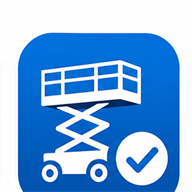
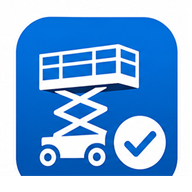
Add files via upload

diff --git a/index.html b/index.html
@@ -62,7 +62,7 @@ button{border:none;border-radius:14px;padding:11px 14px;cursor:pointer;font-weig
 input::placeholder, textarea::placeholder{color:#334155;font-weight:600;font-size:1rem;opacity:1} textarea{min-height:110px;resize:vertical}
 .suggest-wrap{position:relative}.suggest-box{position:absolute;left:0;right:0;top:calc(100% + 8px);border:1px solid var(--line);border-radius:14px;background:#fff;max-height:220px;overflow:auto;box-shadow:0 10px 24px rgba(15,23,42,.08);z-index:20}.suggest-item{padding:10px 12px;cursor:pointer;border-bottom:1px solid #eef2f7;font-size:.95rem}.suggest-item:last-child{border-bottom:none}.suggest-item:hover{background:#f8fbff}.helper{font-size:.8rem;color:var(--muted);margin-top:6px}
 .smart-suggest-wrap{position:relative;overflow:visible}.smart-suggest-box{position:absolute;left:0;right:0;top:calc(100% + 6px);display:none;max-height:168px;overflow:auto;-webkit-overflow-scrolling:touch;background:#fff;border:1px solid var(--line);border-radius:14px;box-shadow:0 12px 26px rgba(15,23,42,.18);z-index:[phone redacted]}.smart-suggest-box.show{display:block}.smart-suggest-box.mobile-floating{position:fixed!important;right:auto!important;top:auto;bottom:auto;z-index:[phone redacted]!important;max-height:180px!important}.smart-suggest-item{padding:10px 12px;border-bottom:1px solid #eef2f7;cursor:pointer;font-size:.92rem;line-height:1.25;background:#fff}.smart-suggest-item:last-child{border-bottom:none}.smart-suggest-item:hover{background:#f8fbff}.smart-suggest-muted{padding:9px 12px;color:var(--muted);font-size:.86rem}.field textarea + .smart-suggest-box{top:calc(100% + 6px)}body.dark .smart-suggest-box{background:#0f172a;border-color:var(--line)}body.dark .smart-suggest-item{background:#0f172a;border-bottom-color:#243244}body.dark .smart-suggest-item:hover{background:#172033}
-/* v1.6 / 5.157 – našeptávač přímo pod polem jako světlý oddělený seznam */
+/* v1.6 / 5.158 – našeptávač přímo pod polem jako světlý oddělený seznam */
 .smart-suggest-wrap{position:relative!important;overflow:visible!important}
 .smart-suggest-box{position:absolute!important;left:0!important;right:0!important;top:calc(100% + 6px)!important;bottom:auto!important;display:none;max-height:210px;overflow-y:auto;overflow-x:hidden;-webkit-overflow-scrolling:touch;background:#f1f5f9!important;border:1px solid #cbd5e1!important;border-radius:14px!important;box-shadow:0 14px 32px rgba(15,23,42,.18)!important;z-index:2147483647!important}
 .smart-suggest-box.show{display:block!important}
@@ -1536,7 +1536,7 @@ body.dark .part-handler-note-display{background:rgba(59,130,246,.12);border-colo
 
 
 
-/* v1.6 / 5.157: mobilní náhled protokolu bez vodorovného posouvání */
+/* v1.6 / 5.158: mobilní náhled protokolu bez vodorovného posouvání */
 @media (max-width: 700px){
   #preview .modal-content{
     width:100vw!important;
@@ -1675,11 +1675,12 @@ body.dark .part-handler-note-display{background:rgba(59,130,246,.12);border-colo
 .easter-game.playing .easter-start{display:none}
 @media(max-width:640px){.easter-hud{align-items:flex-start}.easter-title{font-size:.82rem}.easter-pill{font-size:.76rem;padding:6px 8px}.easter-close{left:14px;right:14px}}
 
-/* v1.6 / 5.157: Revize ZZ / PZP */
+/* v1.6 / 5.158: Revize ZZ / PZP */
 .revize-toolbar{display:flex;gap:10px;flex-wrap:wrap;align-items:center;margin:0 0 14px}.revize-toolbar .search{min-width:min(100%,280px)}
 .revize-archive-head{border:1px solid var(--line);background:linear-gradient(180deg,#f8fbff,#eef6ff);border-radius:10px;padding:10px 12px;margin:12px 0 10px}.dark .revize-archive-head{background:#111827}.revize-archive-head .step-title{margin:2px 0 3px;font-size:1.02rem}
 .revize-stepbar{display:flex;align-items:center;justify-content:space-between;gap:10px;border:1px solid var(--line);background:#f8fbff;border-radius:10px;padding:9px 11px;margin:0 0 12px}.dark .revize-stepbar{background:#111827}.revize-stepbar strong{font-size:.95rem}.revize-stepbar span{color:var(--muted);font-size:.82rem}.revize-step-controls{display:flex;gap:8px;align-items:center;justify-content:flex-end;flex-wrap:wrap}.revize-step-progress{min-width:72px;text-align:center;color:var(--muted);font-size:.85rem}.rz-hidden-step{display:none!important}
-.revize-wizard-modal .modal-content{width:min(100%,760px)}.revize-wizard-modal .revize-form{display:block;border:0;box-shadow:none;border-radius:0;margin:0;padding:22px;background:linear-gradient(180deg,#fff 0%,#f9fbff 100%)}.dark .revize-wizard-modal .revize-form{background:linear-gradient(180deg,#111827 0%,#0f172a 100%)}.revize-wizard-modal #revizeFormWrap>h3,.revize-wizard-modal #revizeFormWrap>.helper{display:none}.revize-wizard-modal .revize-form-grid{grid-template-columns:1fr}.revize-wizard-modal .revize-section-title{margin:0 0 10px;padding:0;border:0;background:transparent;color:var(--text);font-size:1.28rem;text-transform:none;letter-spacing:0}.dark .revize-wizard-modal .revize-section-title{background:transparent;color:var(--text)}.revize-wizard-modal .field{margin-top:0}.revize-wizard-modal .field label{display:none}.revize-wizard-modal .preview-actions{margin-top:18px}.revize-wizard-modal .revize-stepbar{margin-bottom:14px}.revize-wizard-placeholder{display:none}
+.revize-wizard-modal .modal-content{width:min(96vw,860px);max-height:min(94dvh,820px)}.revize-wizard-modal .revize-form{display:block;border:0;box-shadow:none;border-radius:0;margin:0;padding:22px;background:linear-gradient(180deg,#fff 0%,#f9fbff 100%)}.dark .revize-wizard-modal .revize-form{background:linear-gradient(180deg,#111827 0%,#0f172a 100%)}.revize-wizard-modal #revizeFormWrap>h3,.revize-wizard-modal #revizeFormWrap>.helper{display:none}.revize-wizard-modal .revize-form-grid{grid-template-columns:1fr}.revize-wizard-modal .revize-section-title{margin:0 0 10px;padding:0;border:0;background:transparent;color:var(--text);font-size:1.28rem;text-transform:none;letter-spacing:0}.dark .revize-wizard-modal .revize-section-title{background:transparent;color:var(--text)}.revize-wizard-modal .field{margin-top:0}.revize-wizard-modal .field label{display:none}.revize-wizard-modal .preview-actions{margin-top:18px}.revize-wizard-modal .revize-stepbar{margin-bottom:14px}.revize-wizard-placeholder{display:none}
+@media(max-width:640px){.revize-wizard-modal{padding:8px!important}.revize-wizard-modal .modal-content{width:100%;max-height:calc(100dvh - 16px)}.revize-wizard-modal .revize-form{padding:16px}.revize-wizard-modal .preview-actions-right{display:grid;grid-template-columns:1fr 1fr;width:100%}.revize-wizard-modal .preview-actions-right button{width:100%}}
 .revize-form{border:1px solid var(--line);background:#fff;border-radius:12px;padding:14px;margin:12px 0 16px;box-shadow:0 10px 28px rgba(15,47,95,.08)}
 .dark .revize-form{background:#0f172a}.revize-form-grid{display:grid;grid-template-columns:repeat(4,minmax(0,1fr));gap:10px}.revize-form-grid .wide{grid-column:span 2}.revize-form-grid .full{grid-column:1/-1}
 .revize-section-title{grid-column:1/-1;margin:8px 0 0;padding:7px 9px;border-left:4px solid var(--brand);background:#eff6ff;color:#0f2f5f;font-weight:900;font-size:.82rem;text-transform:uppercase;letter-spacing:.04em}.dark .revize-section-title{background:#172554;color:#dbeafe}
@@ -1687,7 +1688,7 @@ body.dark .part-handler-note-display{background:rgba(59,130,246,.12);border-colo
 @media(max-width:900px){.revize-form-grid{grid-template-columns:1fr}.revize-form-grid .wide{grid-column:auto}.revize-check-row{grid-template-columns:1fr}.revize-paper{width:100%;min-height:auto;padding:12px;box-shadow:none}.revize-toolbar .search{min-width:0;flex:1}}
 @media print{body.printing-revize header,body.printing-revize aside,body.printing-revize .container,body.printing-revize .preview-actions{display:none!important}.revize-paper{box-shadow:none;margin:0;padding:8mm;page-break-after:always}}
 
-/* v1.6 / 5.157: Revize ZZ tisknout jako přesné dvě čitelné A4 strany bez křížků/fajfek. */
+/* v1.6 / 5.158: Revize ZZ tisknout jako přesné dvě čitelné A4 strany bez křížků/fajfek. */
 .revize-paper{box-sizing:border-box;display:flex;flex-direction:column;gap:4px;min-height:297mm}
 .revize-paper table{table-layout:fixed;margin:0 0 4px;break-inside:avoid;page-break-inside:avoid}
 .revize-paper tr{break-inside:avoid;page-break-inside:avoid}
@@ -1707,7 +1708,7 @@ body.dark .part-handler-note-display{background:rgba(59,130,246,.12);border-colo
   .revize-paper:last-child{page-break-after:auto!important;break-after:auto!important}
 }
 
-/* v1.6 / 5.157: stable CSS icons, mobile overflow and cloud-save feedback */
+/* v1.6 / 5.158: stable CSS icons, mobile overflow and cloud-save feedback */
 html,body{max-width:100%;overflow-x:hidden;-webkit-text-size-adjust:100%}
 img,svg,canvas,video{max-width:100%}
 .container,.page-section,.modal,.modal-content,.wizard-shell,.preview-shell,#content,.field,.suggest-wrap,.wizard-actions,.preview-actions,.preview-actions-left,.preview-actions-right{max-width:100%;min-width:0;box-sizing:border-box}
@@ -1720,13 +1721,13 @@ input,textarea,select,button{max-width:100%;min-width:0;box-sizing:border-box}
 .mark-box{width:14px;height:14px;border:1.7px solid #111;border-radius:2px;vertical-align:middle;position:relative;background:#fff}.mark-box.checked{background:#111}
 @media(max-width:640px){.modal{align-items:flex-start;justify-content:center;overflow-y:auto;-webkit-overflow-scrolling:touch;padding:calc(env(safe-area-inset-top,0px) + 10px) max(8px,env(safe-area-inset-right)) calc(env(safe-area-inset-bottom,0px) + 12px) max(8px,env(safe-area-inset-left))}.modal-content{width:100%;max-height:none!important;overflow:visible!important;border-radius:16px}.wizard-shell,.preview-shell{padding:16px}.wizard-actions{position:sticky;bottom:0;z-index:4;margin-left:-16px;margin-right:-16px;padding:14px 16px calc(env(safe-area-inset-bottom,0px) + 8px);background:linear-gradient(180deg,rgba(255,255,255,0) 0%,var(--panel) 22%)}.wizard-actions>div{display:grid!important;grid-template-columns:minmax(0,1fr) minmax(0,1fr);width:100%}.wizard-actions button{min-height:46px}#preview.modal.show{display:block!important;overflow-y:auto!important;-webkit-overflow-scrolling:touch!important;align-items:initial!important;justify-content:initial!important}#preview .modal-content{margin:0 auto 20px;max-height:none!important;overflow:visible!important}#preview .preview-shell,#preview .paper-wrap,#previewBody{overflow:visible!important;max-height:none!important}#preview .paper-page{min-height:auto!important;height:auto!important;overflow:visible!important;padding:8mm 5mm!important}.home-machine-search-row,.toolbar-right{min-width:0}.search,.filter{min-width:0;width:100%}}
 
-/* v1.6 / 5.157: náhled protokolu se na PC i mobilu posouvá celým oknem náhledu, ne zamčeným vnitřním panelem. */
+/* v1.6 / 5.158: náhled protokolu se na PC i mobilu posouvá celým oknem náhledu, ne zamčeným vnitřním panelem. */
 #preview.modal.show{display:block!important;align-items:initial!important;justify-content:initial!important;height:100dvh!important;max-height:100dvh!important;overflow-y:auto!important;overflow-x:hidden!important;-webkit-overflow-scrolling:touch!important;overscroll-behavior:contain!important;padding:18px!important;z-index:120!important}
 #preview .modal-content{margin:0 auto 24px!important;max-height:none!important;overflow:visible!important}
 #preview .preview-shell,#previewBody{max-height:none!important;overflow:visible!important}
 #preview .paper-wrap{max-height:none!important;overflow-x:auto!important;overflow-y:visible!important;-webkit-overflow-scrolling:touch}
 
-/* v1.6 / 5.157: hlavní obrazovka musí zůstat posuvná kolečkem myši i po zavření náhledů a her. */
+/* v1.6 / 5.158: hlavní obrazovka musí zůstat posuvná kolečkem myši i po zavření náhledů a her. */
 html,body{height:auto!important;min-height:100%!important;overflow-y:auto!important}
 body{position:relative!important}
 
@@ -1778,7 +1779,7 @@ body{position:relative!important}
     <button type="button" class="side-small" onclick="exportBackup()">Export zálohy</button>
     <button type="button" class="side-small" id="sideImportBtn">Import zálohy</button>
     <button type="button" class="side-small" id="sideAuditBtn">Historie změn</button>
-    <div class="side-version">Vlastník/Admin: Jan Bartoš<br>Verze: 1.6 / 5.157</div>
+    <div class="side-version">Vlastník/Admin: Jan Bartoš<br>Verze: 1.6 / 5.158</div>
   </div>
 </aside>
 
@@ -2851,7 +2852,7 @@ async function exportBackup(){
     }
     const payload = {
       app: 'LiftControl CZ',
-      appVersion: '1.6 / 5.157',
+      appVersion: '1.6 / 5.158',
       backupType: 'complete',
       schemaVersion: 2,
       exportedAt: new Date().toISOString(),
@@ -3171,21 +3172,22 @@ function addMonthsToDate(dateStr, months=3){ const [y,m,dayRaw]=String(dateStr |
 function escapeHtml(v=''){ return String(v).replace(/[&<>"']/g, s => ({'&':'&amp;','<':'&lt;','>':'&gt;','"':'&quot;',"'":'&#39;'}[s])); }
 function addSuggestion(key,val){ const clean = String(val||'').trim(); if(!clean || clean.length < 2) return; suggestionsStore[key] = suggestionsStore[key] || []; if(!suggestionsStore[key].includes(clean)) suggestionsStore[key].unshift(clean); suggestionsStore[key] = suggestionsStore[key].slice(0,20); }
 function getSuggestions(key,fallback=[]){ return [...new Set([...(suggestionsStore[key]||[]), ...fallback])]; }
+function normalizeSearchText(v){
+  return String(v||'').toLowerCase().normalize('NFD').replace(/[\u0300-\u036f]/g,'').replace(/\s+/g,'').trim();
+}
 function filterSuggestions(items,q){
-  q = String(q||'').trim().toLowerCase();
+  q = String(q||'').trim();
   if(!q) return [];
 
-  const normalize = (v) => String(v||'').toLowerCase().replace(/\s+/g,'').trim();
   const seen = new Set();
   const out = [];
-  const queryCompact = normalize(q);
+  const queryCompact = normalizeSearchText(q);
 
   for(const item of items){
     const raw = String(item||'');
-    const rawLower = raw.toLowerCase();
-    const rawCompact = normalize(raw);
+    const rawCompact = normalizeSearchText(raw);
 
-    if(!(rawLower.includes(q) || rawCompact.includes(queryCompact))) continue;
+    if(!rawCompact.includes(queryCompact)) continue;
     if(seen.has(rawCompact)) continue;
 
     seen.add(rawCompact);
@@ -3414,10 +3416,10 @@ installMainWheelScroll();
 function openWizard(editId=null, prefill={}){
   protocolSaveInProgress = false;
   if(els.nextBtn) els.nextBtn.disabled = false;
-  rec = editId ? JSON.parse(JSON.stringify(data.find(r=>r.id===editId) || {id:uid()})) : {id:uid(), cLogic:'legacy', appVersion:'1.6 / 5.157'};
+  rec = editId ? JSON.parse(JSON.stringify(data.find(r=>r.id===editId) || {id:uid()})) : {id:uid(), cLogic:'legacy', appVersion:'1.6 / 5.158'};
   rec = Object.assign({}, rec, prefill || {});
   if(!editId && !rec.cLogic) rec.cLogic = 'legacy';
-  if(!editId && !rec.appVersion) rec.appVersion = '1.6 / 5.157';
+  if(!editId && !rec.appVersion) rec.appVersion = '1.6 / 5.158';
 
   // Auto doplneni z historie podle vyrobniho cisla.
   if(rec.vc){
@@ -3841,7 +3843,7 @@ async function nextStep(){
     syncRevizeIssue(rec);
     syncModelPreferences(rec);
     if(!rec.cLogic) rec.cLogic = 'legacy';
-    if(!rec.appVersion) rec.appVersion = '1.6 / 5.157';
+    if(!rec.appVersion) rec.appVersion = '1.6 / 5.158';
     if(!rec.enteredBy) rec.enteredBy = rec.technik || getEnteredByDefault();
     setLastEnteredBy(rec.enteredBy);
     rec.savedAt = new Date().toISOString();
@@ -3873,7 +3875,7 @@ function openPreviewById(id){
 function closePreview(){
   closeModal(els.preview);
 }
-/* v1.6 / 5.157: tisk protokolu přes samostatnou čistou tiskovou stránku. */
+/* v1.6 / 5.158: tisk protokolu přes samostatnou čistou tiskovou stránku. */
 
 function downloadById(id){
   const record = data.find(r => r.id === id);
@@ -3908,7 +3910,7 @@ async function logAuditAction(action, entity, record, by, detail){
       serial: record?.vc || record?.serial || '',
       type: record?.typ || record?.type || '',
       createdAt: new Date().toISOString(),
-      appVersion: '1.6 / 5.157'
+      appVersion: '1.6 / 5.158'
     };
     const rows = loadLocalAudit();
     rows.unshift(item);
@@ -4601,7 +4603,7 @@ async function printCurrent(){
     return;
   }
 
-  // v1.6 / 5.157: Přímý tisk z modalu i PDF generování přes html2pdf v některých prohlížečích vracelo prázdnou stránku.
+  // v1.6 / 5.158: Přímý tisk z modalu i PDF generování přes html2pdf v některých prohlížečích vracelo prázdnou stránku.
   // Proto se protokol otevře jako samostatná čistá tisková stránka s vlastním CSS. Tisk se spustí až z této viditelné stránky.
   els.previewBody.innerHTML = renderPaper(currentPreview);
   const element = els.previewBody.querySelector('.paper');
@@ -4617,7 +4619,7 @@ async function printCurrent(){
 <title>${escapeHtml(fileBase)} - tisk protokolu</title>
 <style>${getPrintStyles()}
 
-/* v1.6 / 5.157: mobilní náhled protokolu bez vodorovného posouvání */
+/* v1.6 / 5.158: mobilní náhled protokolu bez vodorovného posouvání */
 @media (max-width: 700px){
   #preview .modal-content{
     width:100vw!important;
@@ -5172,7 +5174,7 @@ async function saveWorkPlanFromForm(){
       place,
       extraPlaces,
       note,
-      appVersion:'1.6 / 5.157'
+      appVersion:'1.6 / 5.158'
     });
     if(!record.createdAt) record.createdAt = new Date().toISOString();
     await saveWorkPlan(record);
@@ -5810,7 +5812,7 @@ async function saveFaultFromForm(){
       inService: status === 'service' ? true : (existing ? !!existing.inService : false),
       waitingParts: status === 'waiting_parts' ? true : (existing ? !!existing.waitingParts : false),
       photos: currentFaultPhotos,
-      appVersion:'1.6 / 5.157'
+      appVersion:'1.6 / 5.158'
     });
     if(!record.createdAt) record.createdAt = new Date().toISOString();
     setLastEnteredBy(record.enteredBy);
@@ -6095,7 +6097,7 @@ body.dark .audit-item{background:var(--panel2)}
 body.dark .part-handler-note-display{background:rgba(59,130,246,.12);border-color:rgba(96,165,250,.35)}
 
 
-/* v1.6 / 5.157: mobilní náhled protokolu bez vodorovného posouvání */
+/* v1.6 / 5.158: mobilní náhled protokolu bez vodorovného posouvání */
 @media (max-width: 700px){
   #preview .modal-content{
     width:100vw!important;
@@ -6679,7 +6681,7 @@ async function savePartFromForm(){
       orderedAt: (statusVal === 'ordered' || statusVal === 'sent' || statusVal === 'resolved') ? ((existing && existing.orderedAt) || new Date().toISOString()) : '',
       sentAt: (statusVal === 'sent' || statusVal === 'resolved') ? ((existing && existing.sentAt) || new Date().toISOString()) : '',
       resolvedAt: statusVal === 'resolved' ? ((existing && existing.resolvedAt) || new Date().toISOString()) : '',
-      appVersion:'1.6 / 5.157'
+      appVersion:'1.6 / 5.158'
     });
     record.photos = JSON.parse(JSON.stringify(currentPartPhotos || []));
     record.photo = record.photos[0] || null;
@@ -6766,7 +6768,7 @@ async function markPartResolved(id){
 }
 
 
-/* v1.6 / 5.157: Revize ZZ / PZP */
+/* v1.6 / 5.158: Revize ZZ / PZP */
 const REVIZE_DEVICE_TYPES = {
   scissor:{label:'Nůžková plošina', druh:'samohybná nůžková zdvihací pracovní plošina', skupina:'A/3', use:['rozmer_plosiny','deck'], skip:['bocni_dosah']},
   articulated:{label:'Kloubová plošina', druh:'samohybná kloubová zdvihací pracovní plošina', skupina:'B/3', use:['bocni_dosah','rameno','teleskop','rotace_kose','otoc']},
@@ -6829,7 +6831,7 @@ function saveLocalRevize(rows){ try { localStorage.setItem('revize_zz_local', JS
 function revizeNextNumber(){ const year2=String(new Date().getFullYear()).slice(-2); const nums=(revizeData||[]).map(r=>String(r.protokol||'').match(/(\d+)\s*RZ\s*\/\s*\d{2,4}/i)?.[1]).filter(Boolean).map(Number); const max=Math.max(0,...nums); return `${max+1}RZ/${year2}`; }
 function revizeDefaultMeter(){ try{ return localStorage.getItem('revize_last_meter') || 'Přístroj: REVEX plus v.č.011134 kal.do 1.6.2026, Eurotest XE v.č.17200404 kal.do 1.7.2027'; }catch(e){ return 'Přístroj: REVEX plus v.č.011134 kal.do 1.6.2026, Eurotest XE v.č.17200404 kal.do 1.7.2027'; } }
 function revizeMeterInfo(text){ const s=String(text||''); const ev=[...s.matchAll(/v\.?\s*č\.?\s*[:.]?\s*([A-Za-z0-9/.-]+)/gi)].map(m=>m[1]); const kal=[...s.matchAll(/kal\.?\s*do\s*([0-9]{1,2}\.[0-9]{1,2}\.[0-9]{2,4})/gi)].map(m=>m[1]); return {ev:ev.join(', '), kalibrace:kal.join(', ')}; }
-function revizeDefaultRecord(){ const d=todayLocal(); const meter=revizeDefaultMeter(); const mi=revizeMeterInfo(meter); return {id:uid(),protokol:revizeNextNumber(),datum_kontroly:d,platnost:addMonthsToDate(d,12),druh_kontroly:'Pravidelná',provozovatel:'Zeppelin CZ s.r.o.',umisteni:'',typ_zarizeni:'scissor',skupina:'A/3',typ:'Nůžková plošina',rt_jmeno:'Jan Bartoš',rt_zz_osvedceni:'0918/6/22/R,Z-ZZ-c',rt_zz_opravneni:'ev.č. 38/22/ZZ-M,O,R,Z-b,b1',rt_ez:'',rt_ez_osvedceni:'ev.č.EL: 0171/1/22/R-EZ-E2A',pristroj:meter,pristroj_ev:mi.ev,kalibrace:mi.kalibrace,checks:{},notes:{},electro:{},zavady:'',termin_odstraneni:'',predal:'Jan Bartoš',prevzal:'Petr Čáp',norma:'',normy_revize:revizeDefaultNormy(),createdAt:new Date().toISOString(),appVersion:'1.6 / 5.157'}; }
+function revizeDefaultRecord(){ const d=todayLocal(); const meter=revizeDefaultMeter(); const mi=revizeMeterInfo(meter); return {id:uid(),protokol:revizeNextNumber(),datum_kontroly:d,platnost:addMonthsToDate(d,12),druh_kontroly:'Pravidelná',provozovatel:'Zeppelin CZ s.r.o.',umisteni:'',typ_zarizeni:'scissor',skupina:'A/3',typ:'Nůžková plošina',rt_jmeno:'Jan Bartoš',rt_zz_osvedceni:'0918/6/22/R,Z-ZZ-c',rt_zz_opravneni:'ev.č. 38/22/ZZ-M,O,R,Z-b,b1',rt_ez:'',rt_ez_osvedceni:'ev.č.EL: 0171/1/22/R-EZ-E2A',pristroj:meter,pristroj_ev:mi.ev,kalibrace:mi.kalibrace,checks:{},notes:{},electro:{},zavady:'',termin_odstraneni:'',predal:'Jan Bartoš',prevzal:'Petr Čáp',norma:'',normy_revize:revizeDefaultNormy(),createdAt:new Date().toISOString(),appVersion:'1.6 / 5.158'}; }
 function revizeResult(r){ const answers = Object.values(r.checks||{}); const electro = Object.values(r.electro||{}).map(x=>x?.ok).filter(Boolean); const hasNo = [...answers,...electro].includes('NE'); const overdue = r.platnost && daysUntilDate(r.platnost) < 0; return (hasNo || overdue || String(r.vysledek||'').toUpperCase()==='NEVYHOVUJE') ? 'NEVYHOVUJE' : 'VYHOVUJE'; }
 function setRevizeMode(mode){ revizeMode = mode === 'archive' ? 'archive' : 'new'; const title=document.getElementById('revizeListTitle'); const hint=document.getElementById('revizeListHint'); const kicker=document.getElementById('revizeModeKicker'); if(kicker) kicker.textContent = revizeMode === 'archive' ? 'HOTOVÉ RZ' : 'ARCHIV RZ'; if(title) title.textContent = revizeMode === 'archive' ? 'Hotové RZ - archiv revizních protokolů' : 'Hotové RZ - uložené revizní protokoly'; if(hint) hint.textContent = 'Uložené revizní protokoly ZZ jsou oddělené od čtvrtletních kontrol, hlášení poruch a hlavního přehledu.'; }
 function openRevizeModal(mode='new'){ setRevizeMode(mode); showSection(mode === 'archive' ? 'revizeArchive' : 'revize'); if(mode === 'archive') closeRevizeForm(); renderRevize(); }
@@ -6888,6 +6890,17 @@ function serialMatchesCandidate(serial, candidate){
   const rs=normalizeSerial(candidate);
   return !!s && !!rs && (rs===s || (s.length>=3 && rs.endsWith(s)) || (rs.length>=3 && s.endsWith(rs)));
 }
+function normalizeBranchAddress(value, owner=''){
+  const raw = String(value||'').trim();
+  const company = String(owner||'').trim() || 'Zeppelin CZ s.r.o.';
+  if(!raw) return '';
+  const compact = normalizeSearchText(raw);
+  if(compact.includes('jazlovice') || compact.includes('zdebradska')) return `${company} – Zděbradská 57, 251 01 Jažlovice`;
+  return raw.replace(/\s+-\s+|\s+–\s+/, ' – ').replace(/\s*,\s*/g, ', ').replace(/\s{2,}/g, ' ');
+}
+function revizeFieldSourceKey(field){
+  return {vyrobni_cislo:'serial',evidencni_cislo:'evidencni',vyrobce:'maker',model:'model',rok_vyroby:'year',skupina:'group',umisteni:'place',provozovatel:'owner',norma:'norma',normy_revize:'normyRevize',hmotnost:'weight',nosnost:'capacity',pracovni_vyska:'workHeight',vyska_podlahy:'floorHeight',rozmer_plosiny:'platform',bocni_dosah:'reach',naklon:'tilt',pohon:'drive',napajeni:'power',stabilizatory:'stabilizers',deck:'deck',nabijec:'charger',zasuvka_kos:'socket',rcd:'rcd'}[field] || '';
+}
 function revizeLatestMachine(serial){
   const s=normalizeSerial(serial);
   if(!s) return null;
@@ -6905,16 +6918,31 @@ function revizeLatestMachine(serial){
     rows=all.filter(r=>normalizeSerial(r.serial)===s);
     if(!rows.length && s.length>=3) rows=all.filter(r=>{ const rs=normalizeSerial(r.serial); return rs.endsWith(s) || (rs.length>=3 && s.endsWith(rs)); });
   }
-  rows.sort((a,b)=>String(b.created||'').localeCompare(String(a.created||'')));
+  rows.sort((a,b)=>{
+    const ax=normalizeSerial(a.serial)===s ? 1 : 0;
+    const bx=normalizeSerial(b.serial)===s ? 1 : 0;
+    if(ax!==bx) return bx-ax;
+    return String(b.created||'').localeCompare(String(a.created||''));
+  });
   if(!rows.length) return null;
   const merged={};
   rows.forEach(r=>Object.keys(r||{}).forEach(k=>{ if((merged[k]===undefined || merged[k]==='' || merged[k]===null) && r[k]!==undefined && r[k]!==null && String(r[k]).trim()) merged[k]=r[k]; }));
   merged.serial = rows[0].serial || merged.serial;
+  if(merged.place) merged.place = normalizeBranchAddress(merged.place, merged.owner);
   return merged;
 }
 function revizeSuggestValues(field){ const rows=revizeMachineRows(); const values=[]; const add=v=>{ if(v!==undefined && v!==null && String(v).trim()) values.push(String(v).trim()); };
+  const currentSerial = document.getElementById('rz_vyrobni_cislo')?.value || window.currentRevizeDraft?.vyrobni_cislo || '';
+  const exact = revizeLatestMachine(currentSerial);
+  const exactKey = revizeFieldSourceKey(field);
+  if(exact && exactKey){
+    let exactValue = exact[exactKey];
+    if(field==='model' && !exactValue) exactValue = exact.type;
+    if(field==='umisteni') exactValue = normalizeBranchAddress(exactValue, exact.owner);
+    if(exactValue !== undefined && exactValue !== null && String(exactValue).trim()) return [String(exactValue).trim()];
+  }
   const map={vyrobni_cislo:'serial',evidencni_cislo:'evidencni',vyrobce:'maker',model:'model',rok_vyroby:'year',skupina:'group',umisteni:'place',provozovatel:'owner',norma:'norma',normy_revize:'normyRevize',hmotnost:'weight',nosnost:'capacity',pracovni_vyska:'workHeight',vyska_podlahy:'floorHeight',rozmer_plosiny:'platform',bocni_dosah:'reach',naklon:'tilt',pohon:'drive',napajeni:'power',stabilizatory:'stabilizers',deck:'deck',nabijec:'charger',zasuvka_kos:'socket',rcd:'rcd'};
-  rows.forEach(r=>{ const key=map[field]; if(key) add(r[key]); if(field==='model') add(r.type); });
+  rows.forEach(r=>{ const key=map[field]; if(key) add(field==='umisteni' ? normalizeBranchAddress(r[key], r.owner) : r[key]); if(field==='model') add(r.type); });
   (revizeData||[]).forEach(r=>add(r[field]));
   if(['stabilizatory','deck','nabijec','zasuvka_kos','rcd'].includes(field)){ add('ANO'); add('NE'); }
   return [...new Set(values)].slice(0,60);
@@ -6949,7 +6977,7 @@ function applyRevizeDefaultsFromSerial(serial){
     if(!info) return;
     window.revizeApplyingDefaults = true;
     const set=(id,val,force=false)=>{ const el=document.getElementById(id); if(!el || val===undefined || val===null || !String(val).trim()) return; const cur=String(el.value||'').trim(); if(force || !cur || el.dataset.rzAuto==='1'){ el.value=String(val).trim(); el.dataset.rzAuto='1'; } };
-    set('rz_vyrobce', info.maker); set('rz_norma', info.norma); set('rz_normy_revize', info.normyRevize||revizeDefaultNormy(info.norma)); set('rz_model', info.model||info.type); set('rz_evidencni_cislo', info.evidencni); set('rz_rok_vyroby', info.year); set('rz_skupina', info.group); set('rz_umisteni', info.place); set('rz_provozovatel', info.owner); set('rz_hmotnost', info.weight); set('rz_nosnost', info.capacity); set('rz_pracovni_vyska', info.workHeight); set('rz_vyska_podlahy', info.floorHeight); set('rz_rozmer_plosiny', info.platform); set('rz_bocni_dosah', info.reach); set('rz_naklon', info.tilt); set('rz_pohon', info.drive); set('rz_napajeni', info.power); set('rz_stabilizatory', info.stabilizers); set('rz_deck', info.deck); set('rz_nabijec', info.charger); set('rz_zasuvka_kos', info.socket); set('rz_rcd', info.rcd);
+    set('rz_vyrobni_cislo', info.serial || serial, true); set('rz_vyrobce', info.maker); set('rz_norma', info.norma); set('rz_normy_revize', info.normyRevize||revizeDefaultNormy(info.norma)); set('rz_model', info.model||info.type); set('rz_evidencni_cislo', info.evidencni); set('rz_rok_vyroby', info.year); set('rz_skupina', info.group); set('rz_umisteni', normalizeBranchAddress(info.place, info.owner)); set('rz_provozovatel', info.owner); set('rz_hmotnost', info.weight); set('rz_nosnost', info.capacity); set('rz_pracovni_vyska', info.workHeight); set('rz_vyska_podlahy', info.floorHeight); set('rz_rozmer_plosiny', info.platform); set('rz_bocni_dosah', info.reach); set('rz_naklon', info.tilt); set('rz_pohon', info.drive); set('rz_napajeni', info.power); set('rz_stabilizatory', info.stabilizers); set('rz_deck', info.deck); set('rz_nabijec', info.charger); set('rz_zasuvka_kos', info.socket); set('rz_rcd', info.rcd);
     ['stabilizatory','deck','nabijec','zasuvka_kos','rcd'].forEach(k=>{ const el=document.getElementById('rz_'+k); if(el && (el.dataset.rzAuto==='1' || !String(el.value||'').trim())) el.value=revizeYesNoValue(el.value); });
     const type=document.getElementById('rz_typ_zarizeni'); const inferredType=info.deviceType||inferRevizeDeviceType([info.type,info.model].filter(Boolean).join(' ')); if(type && inferredType && REVIZE_DEVICE_TYPES[inferredType] && (!type.value || type.value==='scissor' || type.dataset.rzAuto==='1')){ type.value=inferredType; type.dataset.rzAuto='1'; }
     syncNormaFromRokVyroby(false);
@@ -7037,15 +7065,25 @@ function attachRevizeSuggestInput(input, getItems, onPick){
     const all=uniqueNonEmpty(getItems ? getItems() : []);
     const items=(q ? filterSuggestions(all,q) : all).slice(0,8);
     if(!items.length){ close(); return; }
-    box.innerHTML=items.map(v=>`<div class="smart-suggest-item" data-value="${escapeHtml(v)}">${escapeHtml(v)}</div>`).join('');
+    box.innerHTML=items.map(v=>`<div class="smart-suggest-item" role="option" tabindex="-1" data-value="${escapeHtml(v)}">${escapeHtml(v)}</div>`).join('');
     box.classList.add('show');
-    box.querySelectorAll('.smart-suggest-item').forEach(item=>item.onpointerdown=ev=>{
+    let pickedAt = 0;
+    const pick=(item, ev)=>{
       ev.preventDefault(); ev.stopPropagation();
+      const now = Date.now();
+      if(now - pickedAt < 250) return;
+      pickedAt = now;
       input.value=item.dataset.value||'';
+      input.dataset.rzAuto='0';
       input.dispatchEvent(new Event('input',{bubbles:true}));
       input.dispatchEvent(new Event('change',{bubbles:true}));
       close();
       if(typeof onPick==='function') onPick(input.value);
+      safeCollectRevizeDraft('revize suggest pick');
+      try{ input.focus({preventScroll:true}); }catch(_e){ input.focus(); }
+    };
+    box.querySelectorAll('.smart-suggest-item').forEach(item=>{
+      ['pointerdown','mousedown','touchstart','click'].forEach(type=>item.addEventListener(type, ev=>pick(item, ev), {passive:false}));
     });
   };
   input.addEventListener('input', ()=>{ if(!window.revizeApplyingDefaults) input.dataset.rzAuto='0'; open(); });
@@ -7098,7 +7136,7 @@ async function syncQuarterlyAfterRevize(r){
   last.typ=last.typ||r.model||r.typ||'';
   last.rok=last.rok||r.rok_vyroby||'';
   last.umisteni=r.umisteni||last.umisteni||'';
-  last.appVersion='1.6 / 5.157';
+  last.appVersion='1.6 / 5.158';
   const replaceByIdOrSerial=(arr, updated)=>{
     const idx=(arr||[]).findIndex(x=>(updated.id && x.id===updated.id) || matchesSerial(x));
     if(idx>=0) arr[idx]={...arr[idx],...updated};
@@ -7126,7 +7164,7 @@ function renderRevizeForm(r){ const type = r.typ_zarizeni || 'scissor'; const de
 function revizeFieldLabel(k){ return ({hmotnost:'Hmotnost',nosnost:'Nosnost',pracovni_vyska:'Pracovní výška',vyska_podlahy:'Výška podlahy',rozmer_plosiny:'Rozměr plošiny',bocni_dosah:'Boční dosah',naklon:'Max. náklon',staticka_zatez:'Statická zátěž 125 %',dynamicka_zatez:'Dynamická zátěž 110 %',pohon:'Pohon',napajeni:'Napájení',stabilizatory:'Stabilizátory',deck:'Výsuvný deck',nabijec:'Nabíječ',zasuvka_kos:'Zásuvka v koši',rcd:'RCD'})[k]||k; }
 function revizeCheckRows(items,r,prefix){ return items.map(([k,l])=>{ const v=(r.checks||{})[k]||'ANO'; const n=(r.notes||{})[k]||''; return `<div class="revize-check-row"><strong>${escapeHtml(l)}</strong><div class="yesno"><button type="button" class="yn-btn ${v==='ANO'?'yes active':'yes'}" data-rz-check="${k}" data-rz-val="ANO">ANO</button><button type="button" class="yn-btn ${v==='NE'?'no active':'no'}" data-rz-check="${k}" data-rz-val="NE">NE</button></div><input data-rz-note="${k}" value="${escapeHtml(n)}" placeholder="Poznámka / opatření"></div>`; }).join(''); }
 function revizeElectroTable(r){ return `<table class="revize-mini-table"><thead><tr><th>Měřená část</th><th>Hodnota</th><th>Vyhovuje</th><th>Poznámka</th></tr></thead><tbody>${REVIZE_ELECTRO.map(([k,l,u])=>{ const e=(r.electro||{})[k]||{}; return `<tr><td>${escapeHtml(l)}</td><td><input data-rz-electro-val="${k}" value="${escapeHtml(e.value||'')}" placeholder="${escapeHtml(u)}"></td><td><select data-rz-electro-ok="${k}"><option ${e.ok==='ANO'?'selected':''}>ANO</option><option ${e.ok==='NE'?'selected':''}>NE</option></select></td><td><input data-rz-electro-note="${k}" value="${escapeHtml(e.note||'')}"></td></tr>`; }).join('')}</tbody></table>`; }
-function collectRevizeDraft(){ syncRevizeMeterFields(); const r=window.currentRevizeDraft||revizeDefaultRecord(); ['protokol','datum_kontroly','platnost','druh_kontroly','provozovatel','umisteni','typ_zarizeni','vyrobce','model','vyrobni_cislo','evidencni_cislo','rok_vyroby','norma','normy_revize','skupina','hmotnost','nosnost','pracovni_vyska','vyska_podlahy','rozmer_plosiny','bocni_dosah','naklon','staticka_zatez','dynamicka_zatez','pohon','napajeni','stabilizatory','deck','nabijec','zasuvka_kos','rcd','rt_jmeno','rt_zz_osvedceni','rt_zz_opravneni','rt_ez_osvedceni','pristroj','pristroj_ev','kalibrace','zavady','predal','prevzal'].forEach(k=>{ const el=document.getElementById('rz_'+k); if(el) r[k]=el.value; }); if(!String(r.normy_revize||'').trim()) r.normy_revize=revizeDefaultNormy(r.norma); delete r.typ_kol; delete r.pothole; delete r.rt_ez; delete r.termin_odstraneni; const cfg=REVIZE_DEVICE_TYPES[r.typ_zarizeni]||REVIZE_DEVICE_TYPES.scissor; r.typ=cfg.label; r.checks=r.checks||{}; r.notes=r.notes||{}; document.querySelectorAll('[data-rz-check].active').forEach(b=>r.checks[b.dataset.rzCheck]=b.dataset.rzVal); document.querySelectorAll('[data-rz-note]').forEach(i=>r.notes[i.dataset.rzNote]=i.value); r.electro=r.electro||{}; REVIZE_ELECTRO.forEach(([k])=>{ r.electro[k]={value:document.querySelector(`[data-rz-electro-val="${k}"]`)?.value||'',ok:document.querySelector(`[data-rz-electro-ok="${k}"]`)?.value||'ANO',note:document.querySelector(`[data-rz-electro-note="${k}"]`)?.value||''}; }); r.vysledek=revizeResult(r); r.updatedAt=new Date().toISOString(); r.appVersion='1.6 / 5.157'; try{ if(r.pristroj) localStorage.setItem('revize_last_meter', r.pristroj); }catch(e){} window.currentRevizeDraft=r; return r; }
+function collectRevizeDraft(){ syncRevizeMeterFields(); const r=window.currentRevizeDraft||revizeDefaultRecord(); ['protokol','datum_kontroly','platnost','druh_kontroly','provozovatel','umisteni','typ_zarizeni','vyrobce','model','vyrobni_cislo','evidencni_cislo','rok_vyroby','norma','normy_revize','skupina','hmotnost','nosnost','pracovni_vyska','vyska_podlahy','rozmer_plosiny','bocni_dosah','naklon','staticka_zatez','dynamicka_zatez','pohon','napajeni','stabilizatory','deck','nabijec','zasuvka_kos','rcd','rt_jmeno','rt_zz_osvedceni','rt_zz_opravneni','rt_ez_osvedceni','pristroj','pristroj_ev','kalibrace','zavady','predal','prevzal'].forEach(k=>{ const el=document.getElementById('rz_'+k); if(el) r[k]=el.value; }); if(!String(r.normy_revize||'').trim()) r.normy_revize=revizeDefaultNormy(r.norma); delete r.typ_kol; delete r.pothole; delete r.rt_ez; delete r.termin_odstraneni; const cfg=REVIZE_DEVICE_TYPES[r.typ_zarizeni]||REVIZE_DEVICE_TYPES.scissor; r.typ=cfg.label; r.checks=r.checks||{}; r.notes=r.notes||{}; document.querySelectorAll('[data-rz-check].active').forEach(b=>r.checks[b.dataset.rzCheck]=b.dataset.rzVal); document.querySelectorAll('[data-rz-note]').forEach(i=>r.notes[i.dataset.rzNote]=i.value); r.electro=r.electro||{}; REVIZE_ELECTRO.forEach(([k])=>{ r.electro[k]={value:document.querySelector(`[data-rz-electro-val="${k}"]`)?.value||'',ok:document.querySelector(`[data-rz-electro-ok="${k}"]`)?.value||'ANO',note:document.querySelector(`[data-rz-electro-note="${k}"]`)?.value||''}; }); r.vysledek=revizeResult(r); r.updatedAt=new Date().toISOString(); r.appVersion='1.6 / 5.158'; try{ if(r.pristroj) localStorage.setItem('revize_last_meter', r.pristroj); }catch(e){} window.currentRevizeDraft=r; return r; }
 async function saveRevizeFromForm(){
   if(revizeSaveInProgress) return;
   const r=collectRevizeDraft();

diff --git a/sw.js b/sw.js
@@ -1,4 +1,4 @@
-const CACHE_NAME = 'liftcontrol-cz-v1-6-5-157';
+const CACHE_NAME = 'liftcontrol-cz-v1-6-5-158';
 const APP_SHELL = [
   './',
   './index.html',